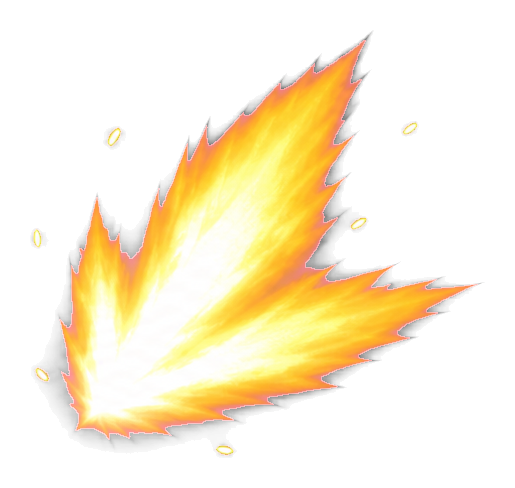
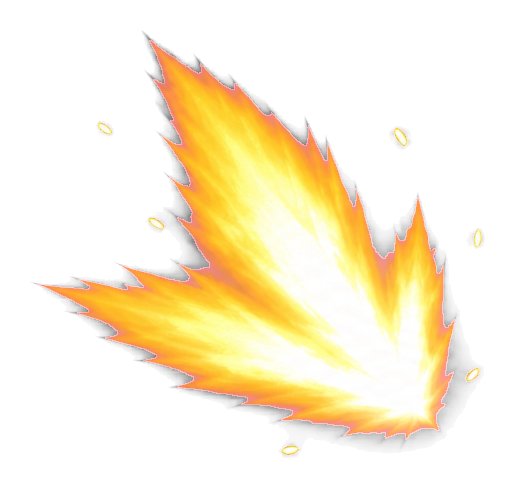
Refine muzzle and tracer direction

diff --git a/app/globals.css b/app/globals.css
@@ -8323,24 +8323,24 @@ html[data-theme="dark"] .battle-practice {
 .battle-projectile {
   z-index: 11;
   top: 6%;
-  left: 54%;
-  width: min(18vw, 240px);
+  left: 41%;
+  width: min(13vw, 176px);
   object-fit: contain;
   opacity: 0;
   mix-blend-mode: normal;
-  transform-origin: 5% 86%;
+  transform-origin: 95% 86%;
   animation: battle-depth-projectile 240ms cubic-bezier(0.08, 0.82, 0.16, 1) both;
 }
 
 .battle-muzzle {
   z-index: 12;
   top: 6%;
-  left: 54%;
+  left: 46.5%;
   width: min(9.5vw, 124px);
   object-fit: contain;
   opacity: 0;
   mix-blend-mode: normal;
-  transform-origin: 11% 86%;
+  transform-origin: 89% 86%;
   animation: battle-depth-muzzle 170ms cubic-bezier(0.12, 0.78, 0.2, 1) both;
 }
 
@@ -8441,27 +8441,27 @@ html[data-theme="dark"] .battle-practice {
 }
 
 @keyframes battle-depth-projectile {
-  0% { opacity: 0; transform: rotate(-125deg) scale(0.12, 0.46); }
+  0% { opacity: 0; transform: scale(0.12, 0.46); }
   10% { opacity: 1; }
-  46% { opacity: 0.96; transform: rotate(-125deg) scale(1, 0.72); }
-  76% { opacity: 0.54; transform: rotate(-125deg) scale(0.9, 0.48); }
-  100% { opacity: 0; transform: rotate(-125deg) scale(0.72, 0.3); }
+  46% { opacity: 0.96; transform: scale(1, 0.72); }
+  76% { opacity: 0.54; transform: scale(0.9, 0.48); }
+  100% { opacity: 0; transform: scale(0.72, 0.3); }
 }
 
 @keyframes battle-depth-muzzle {
-  0% { opacity: 0; transform: rotate(-132deg) scale(0.12); }
-  8% { opacity: 1; transform: rotate(-126deg) scale(0.82); }
-  28% { opacity: 1; transform: rotate(-125deg) scale(1.04); }
-  62% { opacity: 0.42; transform: rotate(-124deg) scale(0.94); }
-  100% { opacity: 0; transform: rotate(-122deg) scale(0.72); }
+  0% { opacity: 0; transform: scale(0.12); }
+  8% { opacity: 1; transform: scale(0.82); }
+  28% { opacity: 1; transform: scale(1.04); }
+  62% { opacity: 0.42; transform: scale(0.94); }
+  100% { opacity: 0; transform: scale(0.72); }
 }
 
 @keyframes battle-depth-impact {
-  0% { opacity: 0; transform: translateX(-50%) scale(0.18) rotate(-8deg); }
-  18% { opacity: 1; transform: translateX(-50%) scale(0.74) rotate(1deg); }
-  42% { opacity: 0.96; transform: translateX(-50%) scale(1.04) rotate(4deg); }
-  76% { opacity: 0.48; transform: translateX(-50%) scale(1.18) rotate(7deg); }
-  100% { opacity: 0; transform: translateX(-50%) scale(1.36) rotate(10deg); }
+  0% { opacity: 0; transform: translateX(-50%) scale(0.18); }
+  18% { opacity: 1; transform: translateX(-50%) scale(0.74); }
+  42% { opacity: 0.96; transform: translateX(-50%) scale(1.04); }
+  76% { opacity: 0.48; transform: translateX(-50%) scale(1.18); }
+  100% { opacity: 0; transform: translateX(-50%) scale(1.36); }
 }
 
 @media (max-width: 820px) {
@@ -8505,13 +8505,13 @@ html[data-theme="dark"] .battle-practice {
 
   .battle-muzzle {
     top: 8%;
-    left: 56%;
+    left: 35%;
     width: min(21vw, 84px);
   }
 
   .battle-projectile {
     top: 8%;
-    left: 56%;
+    left: 20%;
     width: min(38vw, 152px);
   }
 
